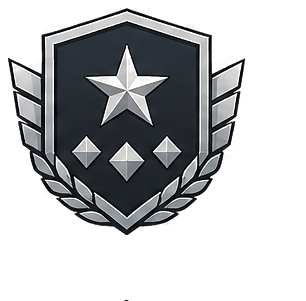
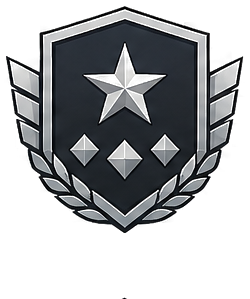
fix: recorte de medallas con tolerancia a ruido; agranda el icono de nivel y lo centra respecto al numero

diff --git a/app/index.html b/app/index.html
@@ -8834,8 +8834,8 @@ function levelBadgeHtml(levelInfo, size = 18) {
   if (typeof ensureGameThemeFontsLoaded === 'function') ensureGameThemeFontsLoaded();
   const tier = levelInfo.badge_tier;
   const color = _badgeTierColors[tier] || _badgeTierColors.bronce;
-  const iconSize = Math.round(size * 1.3);
-  const icon = `<img src="${_badgeAssetPath(levelInfo.level, tier)}" style="width:${iconSize}px;height:${iconSize}px;flex-shrink:0" onerror="this.style.display='none'" />`;
+  const iconSize = Math.round(size * 2.1);
+  const icon = `<img src="${_badgeAssetPath(levelInfo.level, tier)}" style="width:${iconSize}px;height:${iconSize}px;flex-shrink:0;display:block" onerror="this.style.display='none'" />`;
   // El trofeo se muestra al lado del numero (y por lo tanto, al lado del
   // nombre de usuario donde se renderizan juntos), no superpuesto encima.
   const trophy = levelInfo.trophy
